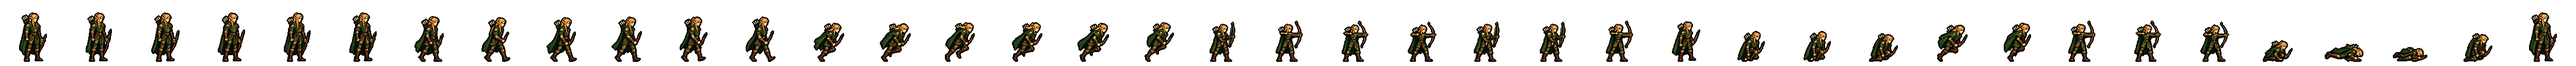
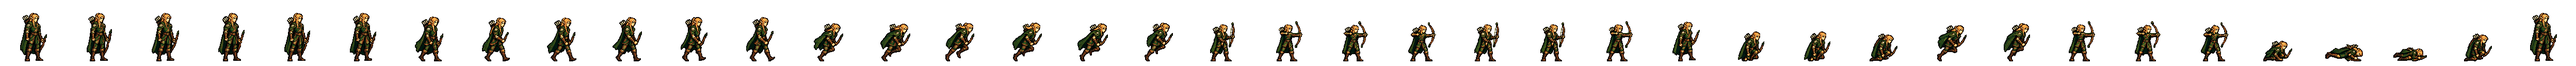
Arqueiro élfico: contorno mais fino e suave
Claude-Session: https://claude.ai/code/session_019r29ZVD3cqF2PF6pdahmsD

diff --git a/Projeto atualizado/sw.js b/Projeto atualizado/sw.js
@@ -1,4 +1,4 @@
-const CACHE = "ded-web-v4.46.0-arqueiro-elfo";
+const CACHE = "ded-web-v4.46.1-arqueiro-contorno";
 
 self.addEventListener("install", () => self.skipWaiting());
 

diff --git a/sw.js b/sw.js
@@ -1,4 +1,4 @@
-const CACHE = "ded-web-v4.46.0-arqueiro-elfo";
+const CACHE = "ded-web-v4.46.1-arqueiro-contorno";
 
 self.addEventListener("install", () => self.skipWaiting());
 

diff --git a/scripts/build_elf_archer.py b/scripts/build_elf_archer.py
@@ -117,11 +117,18 @@ def stylize(f):
     q.putalpha(v.getchannel("A"))
     arr = np.asarray(q).copy()
     al = arr[..., 3] > 0
-    pad = np.pad(al, 1)
-    ring = ndimage.binary_dilation(pad) & ~pad
+    # contorno mais fino e suave: a arte já traz contorno próprio (grosso, quase preto);
+    # a borda externa escura vira a cor do vizinho de dentro, só escurecida ("sel-out")
+    edge = al & ~ndimage.binary_erosion(al)
+    lum = arr[..., :3].astype(int).sum(-1)
+    inner = al & ~edge
+    idx = ndimage.distance_transform_edt(~inner, return_distances=False, return_indices=True)
+    for y, x in zip(*np.nonzero(edge & (lum < 150))):
+        iy, ix = idx[0][y, x], idx[1][y, x]
+        c = arr[iy, ix, :3].astype(float)
+        arr[y, x, :3] = np.clip(c * .5 + np.array([10, 6, 4]), 0, 255).astype(np.uint8)
     out = np.zeros((arr.shape[0] + 2, arr.shape[1] + 2, 4), np.uint8)
     out[1:-1, 1:-1] = arr
-    out[ring] = OUTLINE
     return Image.fromarray(out)
 
 
